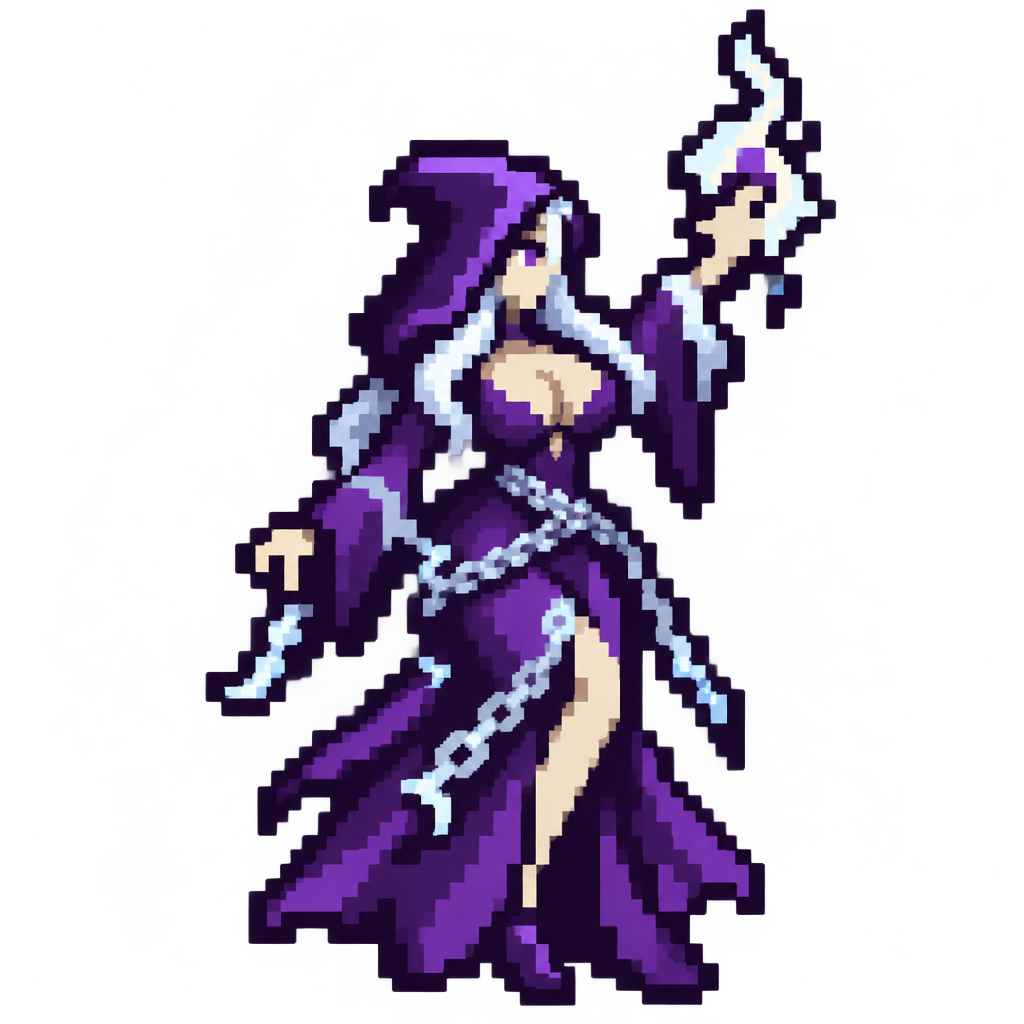
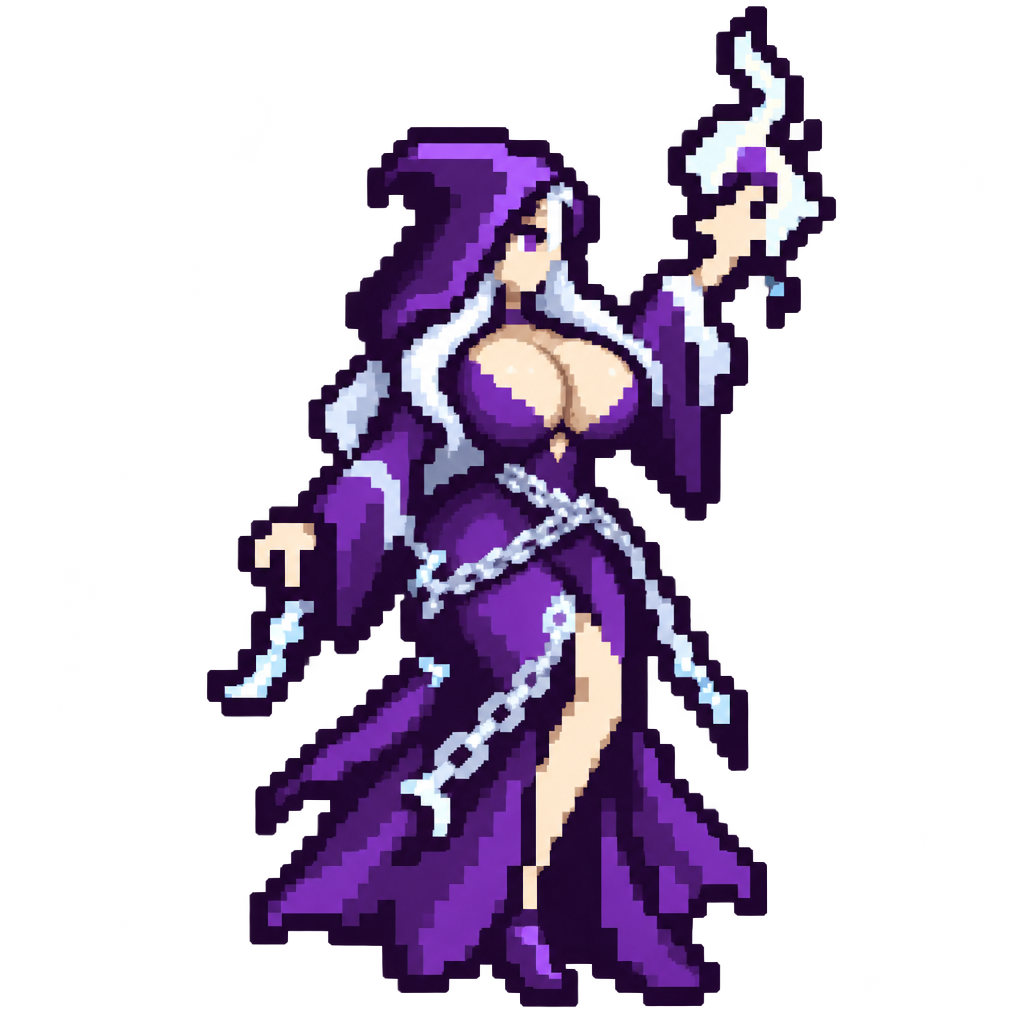
Art draft v3: much larger bust on all eight sprites, Wither Witch bounce box clear of her arm
Claude-Session: https://claude.ai/code/session_01FLPv2RqRe5qVsRWxUhur7z

diff --git a/tools/walk_cycle.py b/tools/walk_cycle.py
@@ -142,13 +142,14 @@ RIGS = {
     "player/plague_scholar": dict(mode="legs", hip=43, back=(0, 26), front=(26, 60), rigid=[], spread=2, lift=1, dip=1),
     "player/doomsayer": dict(mode="legs", hip=47, back=(0, 17), front=(17, 32), rigid=[], spread=1, lift=1, dip=1),
     "player/barrow_warden": dict(mode="legs", hip=52, back=(0, 18), front=(18, 30), rigid=[(30, 44, 0, None)], spread=1, lift=1, dip=1),
-    # Redesigned figures (owner request, Oct 2026): the bust box bounces 1 px (BUST_BOUNCE).
-    "player/soulbinder": dict(mode="legs", hip=54, back=(0, 24), front=(24, 44), rigid=[], spread=1, lift=1, dip=1, bust=(18, 31, 21, 26, 2)),
-    "player/wither_witch": dict(mode="legs", hip=40, back=(0, 18), front=(18, 26), rigid=[(26, 36, 0, None)], spread=1, lift=1, dip=1, bust=(14, 25, 15, 21, 2)),
+    # Redesigned figures (owner request, Oct 2026): the bust box bounces (BUST_BOUNCE). The
+    # Wither Witch's box starts right of her near arm so the arm never shakes.
+    "player/soulbinder": dict(mode="legs", hip=54, back=(0, 24), front=(24, 44), rigid=[], spread=1, lift=1, dip=1, bust=(19, 30, 20, 27, 2)),
+    "player/wither_witch": dict(mode="legs", hip=40, back=(0, 18), front=(18, 26), rigid=[(26, 36, 0, None)], spread=1, lift=1, dip=1, bust=(16, 24, 15, 21, 2)),
     # Seraphine floats: her "walk" is a glide (robe hem sway, the body bob, the bust bounce).
     # The still's relic staff stays rigid down to row 90, where it meets the robe.
-    "bosses/seraphine": dict(mode="robe", hip=70, rigid=[(68, 98, 0, 90)], sway=2, dip=1, bust=(45, 61, 45, 57, 3)),
-    "bosses/seraphine_avatar": dict(mode="robe", hip=104, rigid=[], sway=2, dip=1, bust=(81, 97, 63, 75, 3)),
+    "bosses/seraphine": dict(mode="robe", hip=70, rigid=[(68, 98, 0, 90)], sway=2, dip=1, bust=(42, 64, 44, 58, 3)),
+    "bosses/seraphine_avatar": dict(mode="robe", hip=106, rigid=[], sway=2, dip=1, bust=(74, 97, 61, 78, 3)),
     "player/grave_herald": dict(mode="legs", hip=53, back=(0, 24), front=(24, 46), rigid=[], spread=1, lift=1, dip=1),
     # Later units with long screen time: the walking summon evolutions and two March soldiers.
     "summons/death_knight": dict(mode="legs", hip=41, back=(0, 25), front=(25, 54), rigid=[], spread=2, lift=2, dip=1),
